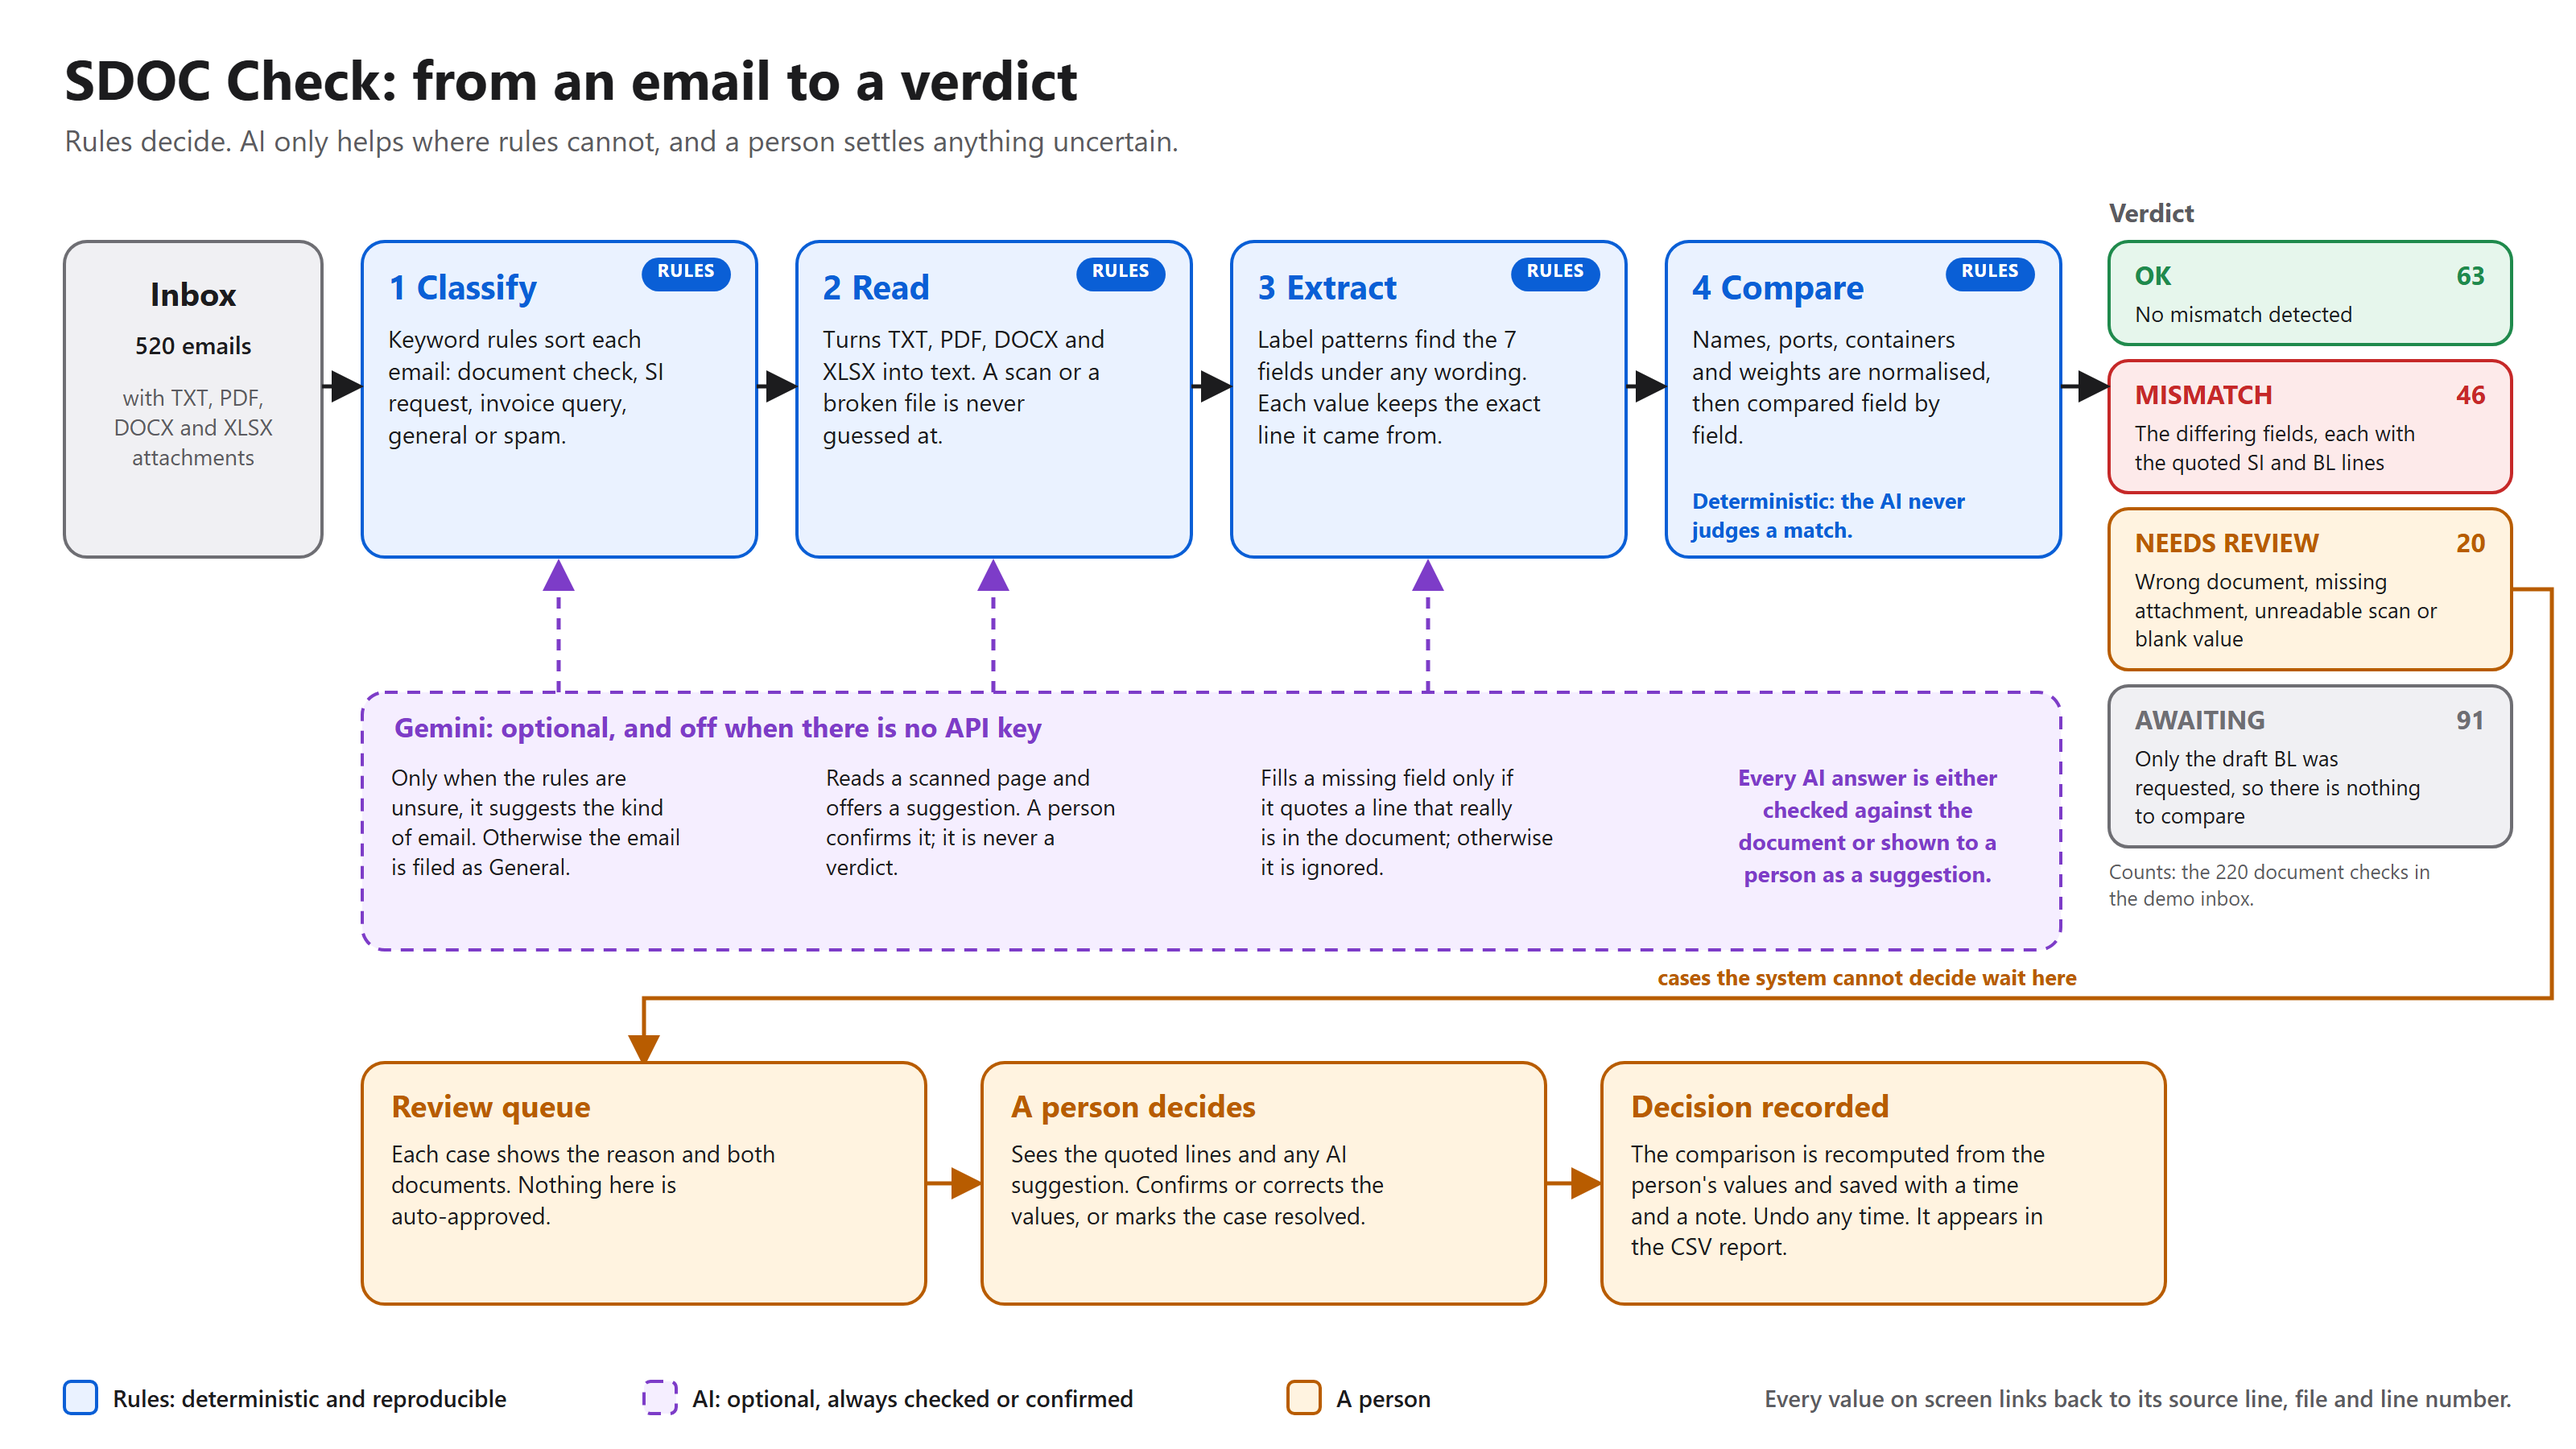
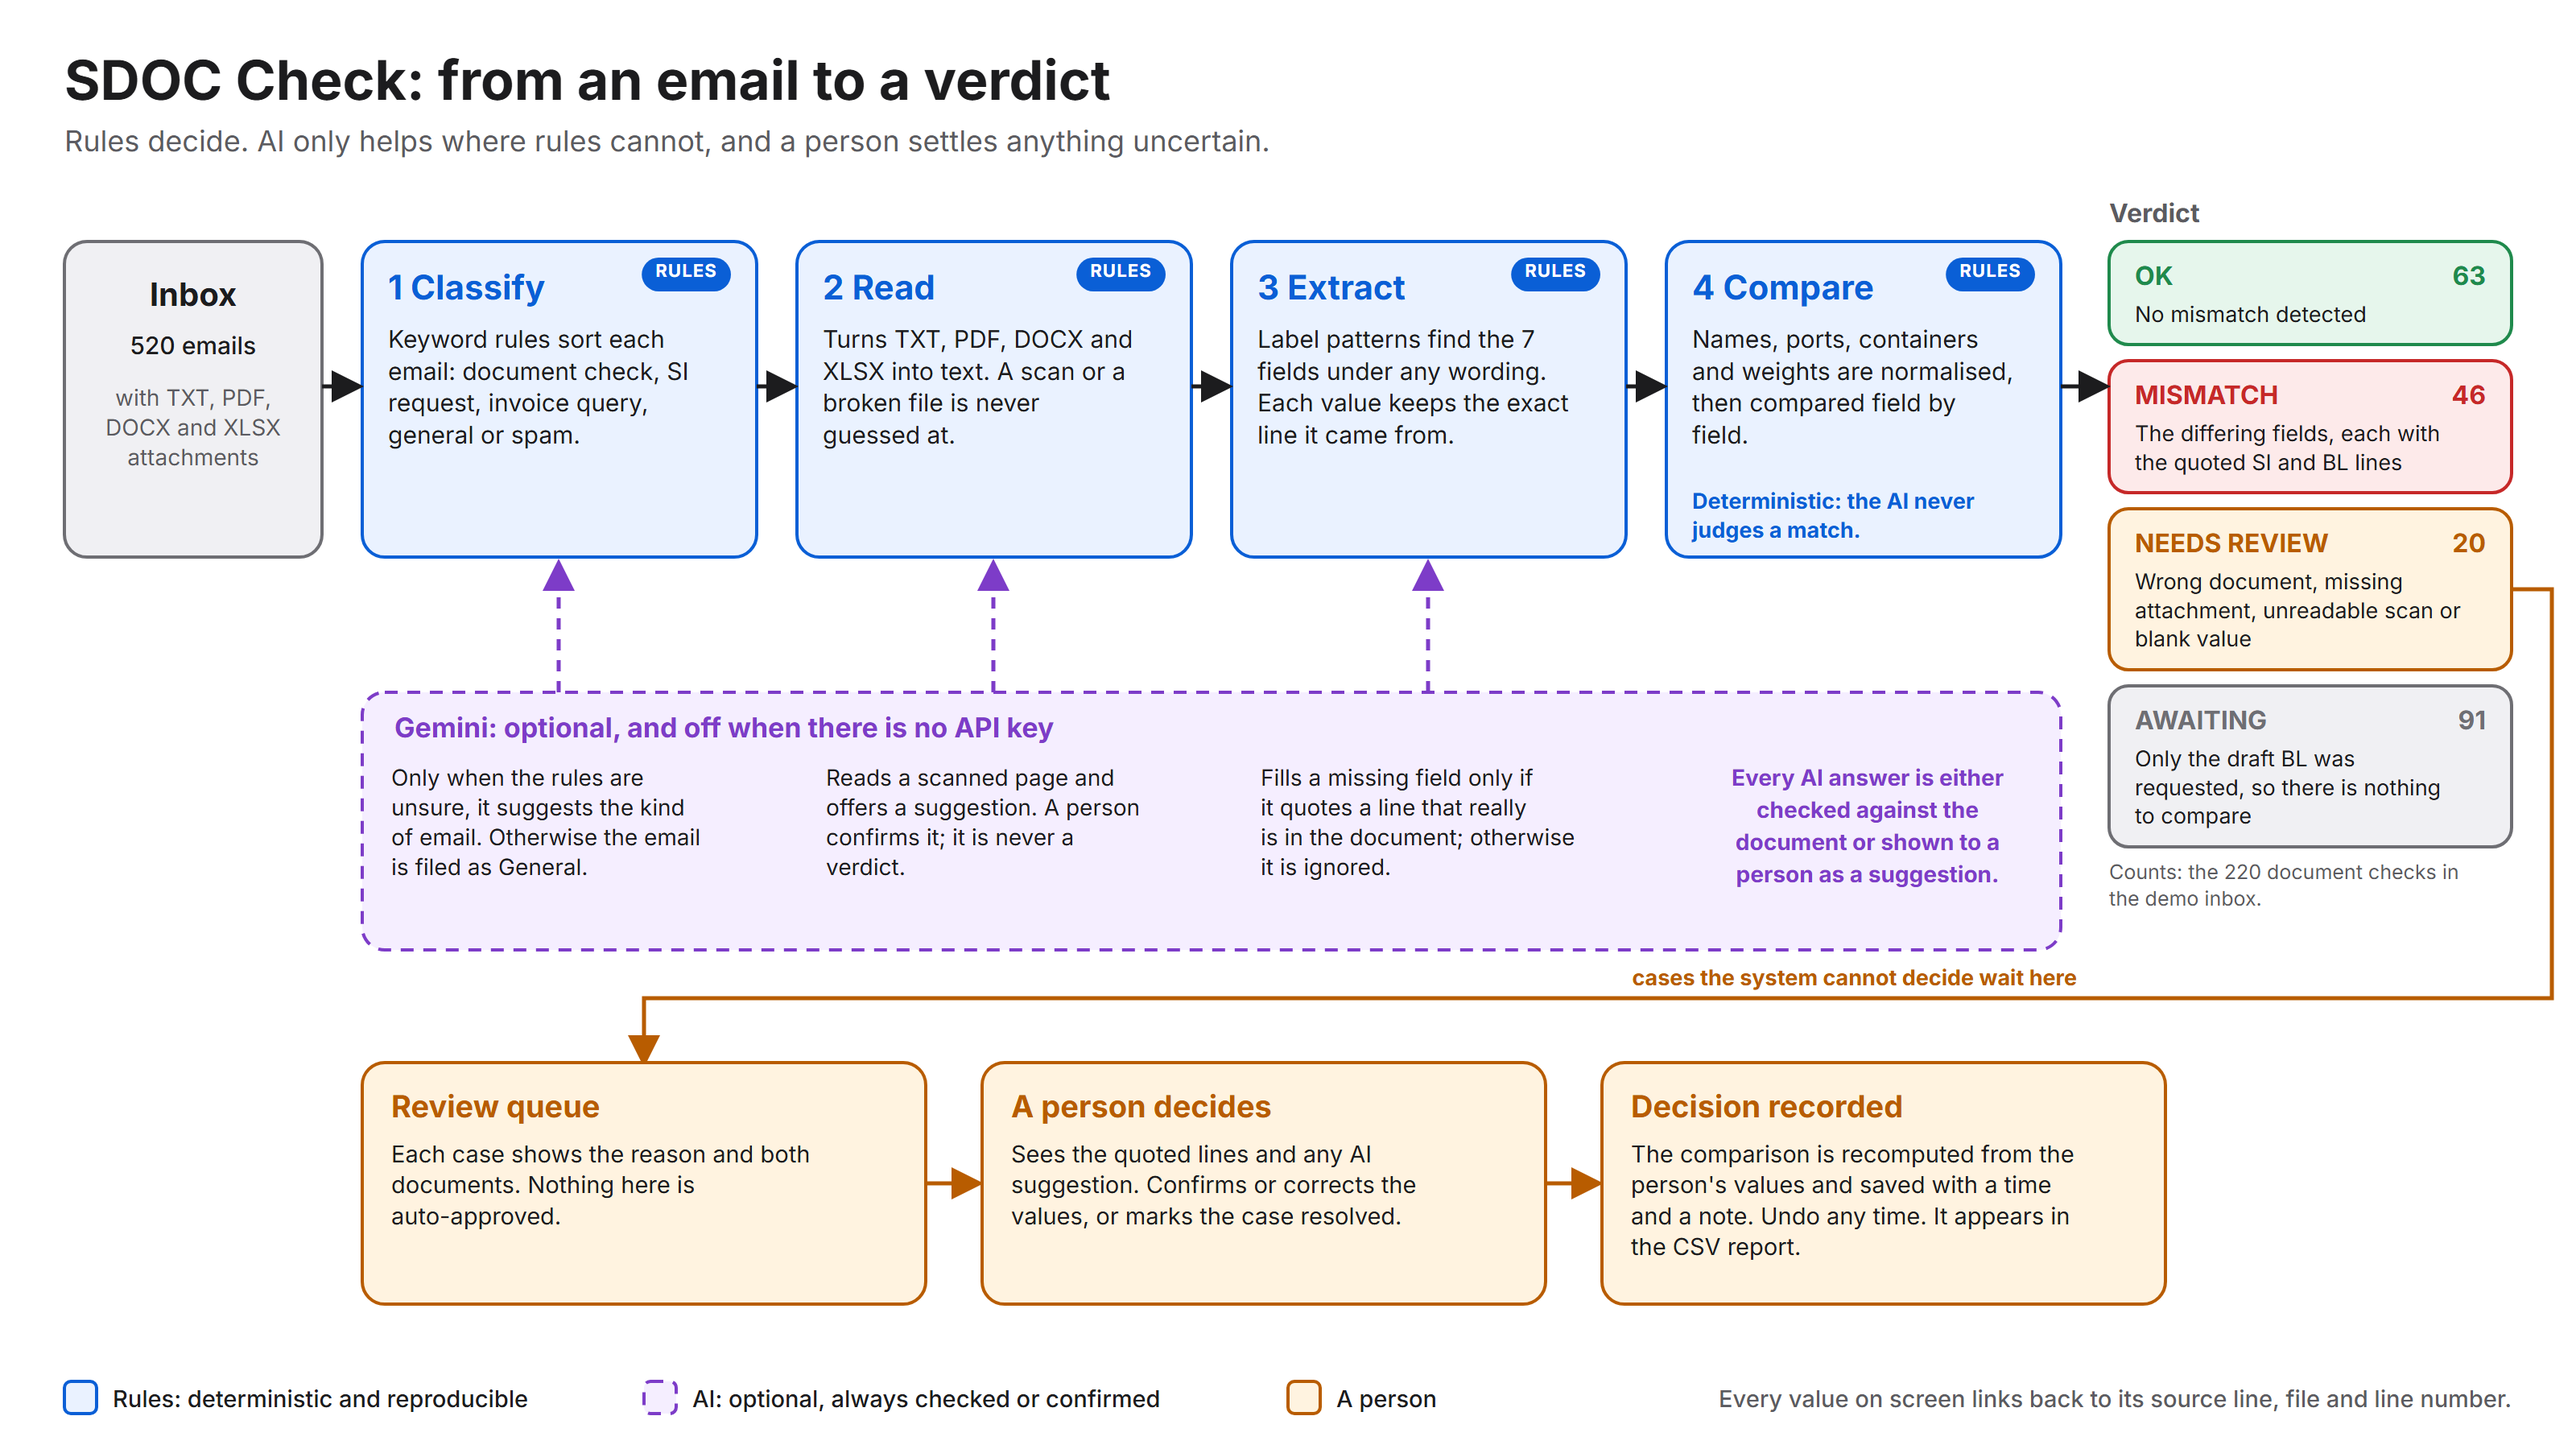
Keep the original fonts everywhere; add a test that guards them

diff --git a/validation/label_packet/packet.html b/validation/label_packet/packet.html
@@ -1,6 +1,8 @@
 <!doctype html><meta charset=utf-8><meta name=viewport content='width=device-width,initial-scale=1'>
 <title>Labelling packet</title>
-<style>body{font:15px/1.45 system-ui,sans-serif;max-width:900px;margin:0 auto;padding:16px;color:#1c1c1e}
+<link rel=preconnect href='https://fonts.googleapis.com'><link rel=preconnect href='https://fonts.gstatic.com' crossorigin>
+<link href='https://fonts.googleapis.com/css2?family=Inter:wght@400;500;600;700&display=swap' rel=stylesheet>
+<style>body{font:15px/1.45 -apple-system,BlinkMacSystemFont,"SF Pro Text","SF Pro Display",Inter,"Segoe UI",Roboto,Helvetica,Arial,sans-serif;max-width:900px;margin:0 auto;padding:16px;color:#1c1c1e}
 .item{border:1px solid #d1d1d6;border-radius:12px;padding:14px;margin:16px 0}h2 small{color:#8e8e93;font-weight:400}
 pre{white-space:pre-wrap;background:#f2f2f7;padding:8px;border-radius:8px;font-size:13px;overflow-wrap:anywhere}
 details{margin:6px 0}summary{cursor:pointer;font-weight:600}img{max-width:100%;border:1px solid #d1d1d6}

diff --git a/static/index.html b/static/index.html
@@ -140,8 +140,8 @@ h2.subject{font-size:21px;font-weight:700;letter-spacing:-.25px;margin:16px 0 6p
 .vt-row .f{font-weight:550;color:var(--text)}
 .vt-row .v{overflow-wrap:anywhere;font-variant-numeric:tabular-nums}
 .vt-row.mismatch .v{font-weight:600}.vt-row .v.none{color:var(--text3)}
-.vt-row .q{display:block;margin-top:3px;font:400 11.5px/1.35 ui-monospace,SFMono-Regular,Menlo,Consolas,monospace;color:var(--text2);font-variant-numeric:normal}
-.vt-row .q i{font-style:normal;color:var(--text3);font-family:inherit;display:block;margin-top:1px}
+.vt-row .q{display:block;margin-top:3px;font-size:11.5px;line-height:1.35;color:var(--text2)}
+.vt-row .q i{font-style:normal;color:var(--text3);display:block;margin-top:1px}
 .vt-row .tag{display:none;font-size:10.5px;color:var(--text2);text-transform:uppercase;letter-spacing:.3px;font-weight:600}
 .st{width:22px;height:22px;border-radius:50%;display:grid;place-items:center;color:#fff}
 .st svg.i{width:13px;height:13px;stroke-width:2.4}

diff --git a/tests/test_fonts.py b/tests/test_fonts.py
@@ -1,0 +1,55 @@
+"""The app keeps the fonts of the first version Joe gave us (commit 75fbb19): Inter from Google Fonts, the same
+system-font stack, and the same monospace stack for raw document text. Nothing else may be added.
+Run from the project folder:  python -m unittest discover -s tests -t . -v
+"""
+import re
+import unittest
+from pathlib import Path
+
+# copied from static/index.html at commit 75fbb19
+JOE_BODY = '-apple-system,BlinkMacSystemFont,"SF Pro Text","SF Pro Display",Inter,"Segoe UI",Roboto,Helvetica,Arial,sans-serif'
+JOE_MONO = "ui-monospace,SFMono-Regular,Menlo,Consolas,monospace"
+JOE_LINK = "https://fonts.googleapis.com/css2?family=Inter:wght@400;500;600;700&display=swap"
+ALLOWED = {"var(--font)", "inherit", JOE_BODY, JOE_MONO}
+
+PAGE = Path("static/index.html").read_text()
+SIZE = re.compile(r"^(?:(?:italic|oblique|bold|normal|\d{3})\s+)*[\d.]+(?:px|em|rem|%)(?:/[\d.]+(?:px|em|rem|%)?)?\s+(.+)$")
+
+
+def families():
+    """Every font family list that the page declares, from `font-family:` and from `font:` shorthands."""
+    found = [m.group(1).strip() for m in re.finditer(r"(?<![-\w])font-family\s*:\s*([^;}]+)", PAGE)]
+    for m in re.finditer(r"(?<![-\w])font\s*:\s*([^;}]+)", PAGE):
+        value = m.group(1).strip()
+        sized = SIZE.match(value)
+        found.append(sized.group(1).strip() if sized else value)
+    return found
+
+
+class TestFontsAreJoes(unittest.TestCase):
+    def test_body_font_stack_is_unchanged(self):
+        self.assertIn(f"--font:{JOE_BODY}", PAGE)
+
+    def test_the_only_font_file_is_joes_inter_link(self):
+        self.assertEqual(re.findall(r"https://fonts\.googleapis\.com/css[^\"' )]*", PAGE), [JOE_LINK])
+        self.assertNotIn("@font-face", PAGE)
+        self.assertNotIn("@import", PAGE)
+
+    def test_every_declared_font_family_is_one_of_joes(self):
+        stray = [f for f in families() if f not in ALLOWED]
+        self.assertEqual(stray, [], "a font that is not in Joe's first version was added")
+
+    def test_monospace_is_only_used_where_joe_used_it(self):
+        self.assertEqual(PAGE.count(JOE_MONO), 1)
+
+    def test_side_documents_use_the_same_fonts(self):
+        for path in ("validation/label_packet.py", "docs/make_diagrams.py"):
+            text = Path(path).read_text()
+            self.assertIn(JOE_BODY, text, path)
+            self.assertIn(JOE_LINK, text, path)
+        for svg in ("docs/architecture.svg", "docs/deployment.svg"):
+            self.assertIn(JOE_BODY, Path(svg).read_text(), svg)
+
+
+if __name__ == "__main__":
+    unittest.main()

diff --git a/docs/make_diagrams.py b/docs/make_diagrams.py
@@ -8,7 +8,9 @@ RULE = ("#eaf2ff", "#0a5fd6")
 AI = ("#f5eeff", "#7d3cc8")
 HUMAN = ("#fff3e0", "#b85c00")
 OK, BAD, GRAY = ("#e6f6ec", "#1f8a4c"), ("#fdeaea", "#c62828"), ("#f0f0f3", "#6e6e73")
-FONT = "system-ui, 'Segoe UI', Helvetica, Arial, sans-serif"
+# the app's own fonts (Inter, from the same Google Fonts link as static/index.html, then the same fallbacks)
+FONT = '-apple-system,BlinkMacSystemFont,"SF Pro Text","SF Pro Display",Inter,"Segoe UI",Roboto,Helvetica,Arial,sans-serif'
+FONT_CSS = "@import url('https://fonts.googleapis.com/css2?family=Inter:wght@400;500;600;700&display=swap');"
 
 
 def wrap(text, width, size):
@@ -58,7 +60,7 @@ class Svg:
         defs = "".join(f'<marker id="h-{c[1:]}" viewBox="0 0 10 10" refX="8.5" refY="5" markerWidth="8" markerHeight="8" '
                        f'orient="auto-start-reverse"><path d="M0,0 L10,5 L0,10 z" fill="{c}"/></marker>' for c in colors)
         svg = (f'<svg xmlns="http://www.w3.org/2000/svg" viewBox="0 0 {self.w} {self.h}" width="{self.w}" height="{self.h}" '
-               f'font-family="{FONT}"><title>{escape(name)}</title><defs>{defs}</defs>'
+               f'font-family=\'{FONT}\'><title>{escape(name)}</title><style>{escape(FONT_CSS)}</style><defs>{defs}</defs>'
                f'<rect width="{self.w}" height="{self.h}" fill="{BG}"/>' + "".join(self.parts) + "</svg>")
         (OUT / name).write_text(svg)
 

diff --git a/validation/label_packet.py b/validation/label_packet.py
@@ -100,7 +100,9 @@ NOTHING_TO_COMPARE = they only asked us to send the draft BL. Leave blank for ot
 
 PAGE = """<!doctype html><meta charset=utf-8><meta name=viewport content='width=device-width,initial-scale=1'>
 <title>Labelling packet</title>
-<style>body{font:15px/1.45 system-ui,sans-serif;max-width:900px;margin:0 auto;padding:16px;color:#1c1c1e}
+<link rel=preconnect href='https://fonts.googleapis.com'><link rel=preconnect href='https://fonts.gstatic.com' crossorigin>
+<link href='https://fonts.googleapis.com/css2?family=Inter:wght@400;500;600;700&display=swap' rel=stylesheet>
+<style>body{font:15px/1.45 -apple-system,BlinkMacSystemFont,"SF Pro Text","SF Pro Display",Inter,"Segoe UI",Roboto,Helvetica,Arial,sans-serif;max-width:900px;margin:0 auto;padding:16px;color:#1c1c1e}
 .item{border:1px solid #d1d1d6;border-radius:12px;padding:14px;margin:16px 0}h2 small{color:#8e8e93;font-weight:400}
 pre{white-space:pre-wrap;background:#f2f2f7;padding:8px;border-radius:8px;font-size:13px;overflow-wrap:anywhere}
 details{margin:6px 0}summary{cursor:pointer;font-weight:600}img{max-width:100%;border:1px solid #d1d1d6}
